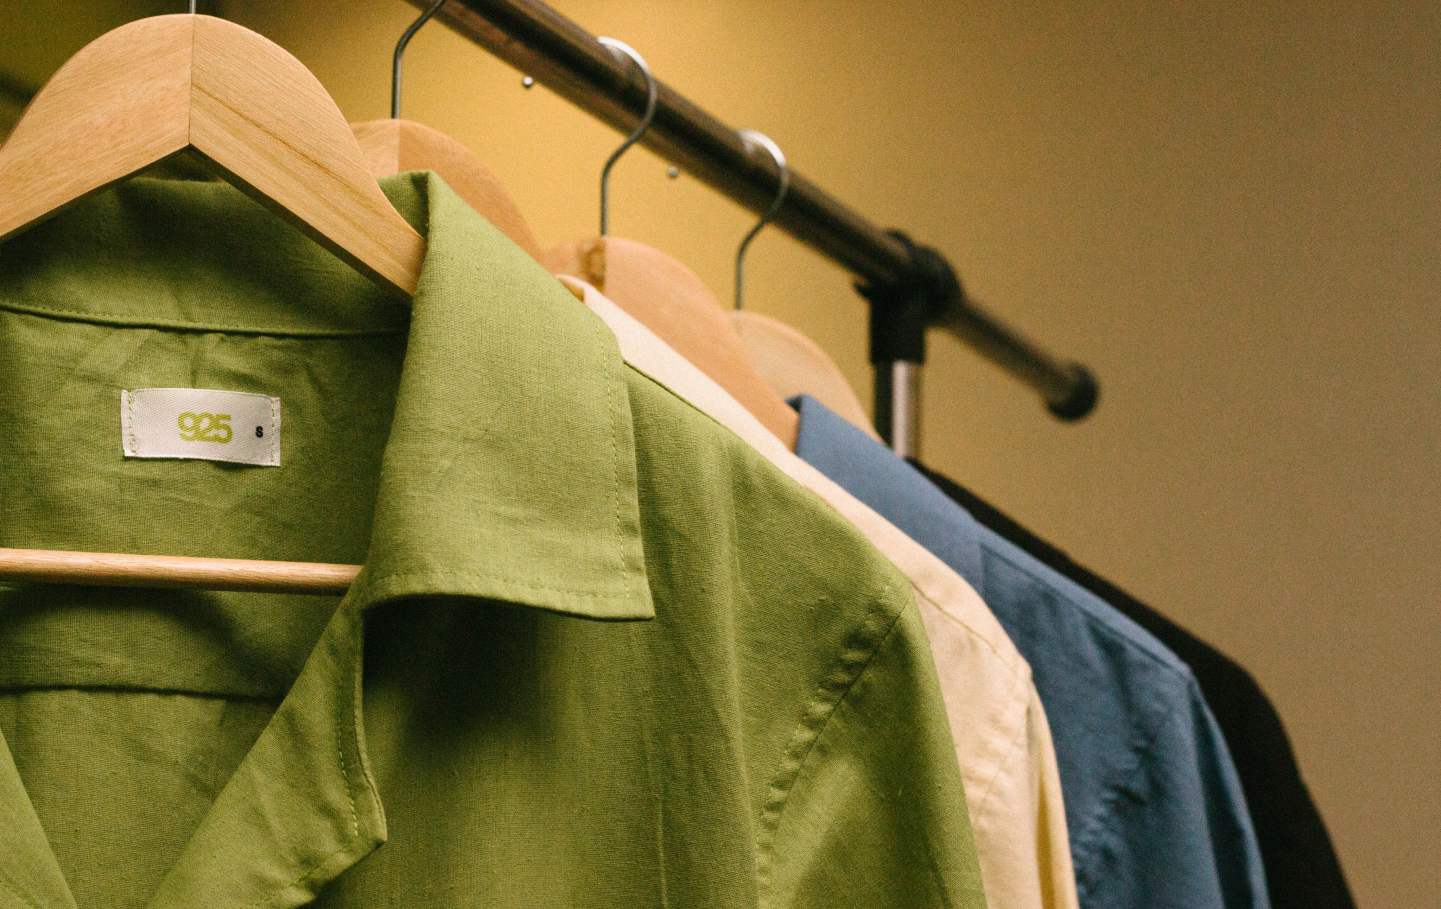
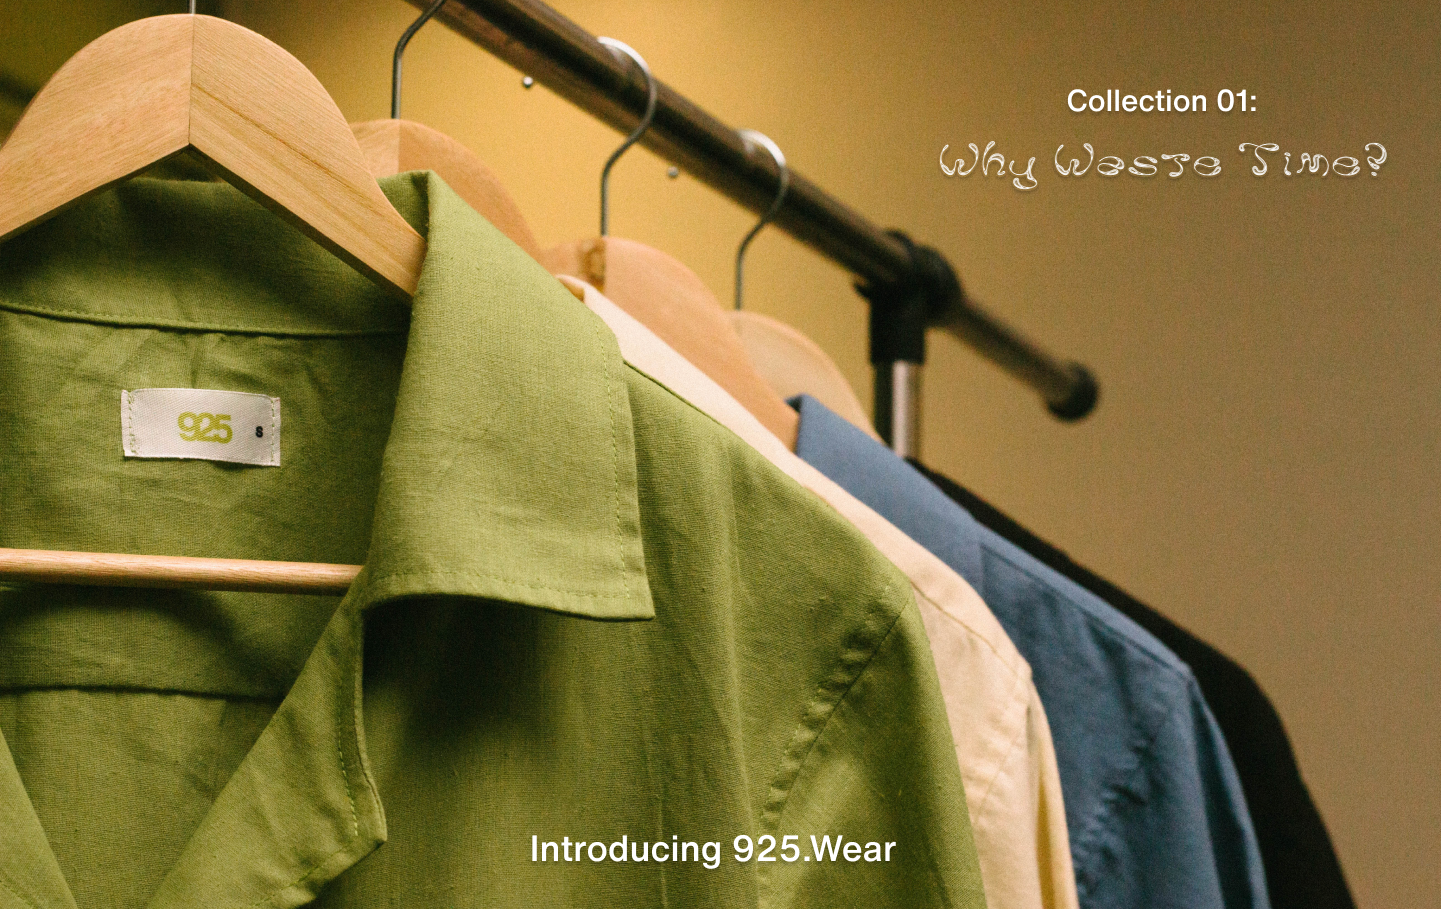
done

Changed region(s): [[0.6558, 0.154, 0.9681, 0.2156], [0.3747, 0.9241, 0.6246, 0.9549], [0.7183, 0.0924, 0.8744, 0.1232]]

diff --git a/pages/index.js b/pages/index.js
@@ -5,6 +5,7 @@ import "react-responsive-carousel/lib/styles/carousel.min.css";
 import { Carousel } from "react-responsive-carousel";
 import { Swiper, SwiperSlide } from "swiper/react";
 import "swiper/css";
+
 export default function Home() {
   return (
     <div>
@@ -44,10 +45,18 @@ export default function Home() {
         </div>
         <Swiper
           className={styles.clotheCarousel}
-          spaceBetween={5}
+          spaceBetween={60}
           slidesPerView={4}
           onSlideChange={() => console.log("slide change")}
           onSwiper={(swiper) => console.log(swiper)}
+          breakpoints={{
+            300: {
+              slidesPerView: 1,
+            },
+            768: {
+              slidesPerView: 4,
+            },
+          }}
         >
           <SwiperSlide className={styles.card}>
             <img className={styles.clothes} src="green.png" />
@@ -100,22 +109,26 @@ export default function Home() {
         </div>
         <div className={styles.interview}>
           <div className={styles.interviewText}>
-            “Whats your biggest fear?” <br/> <br/>
-            “Getting stuck behind a desk, 9-to-5, 5 days <br/>
-            a week, all year long.<br/> 
-            Working a job you cant stand.<br/>
-            That shit scares me.<br/>
-            But thats how it goes, you gotta survive.” <br/><br/>
+            “Whats your biggest fear?” <br /> <br />
+            “Getting stuck behind a desk, 9-to-5, 5 days <br />
+            a week, all year long.
+            <br />
+            Working a job you cant stand.
+            <br />
+            That shit scares me.
+            <br />
+            But thats how it goes, you gotta survive.” <br />
+            <br />
             <strong>(Untitled Interview, n.d.)</strong>
           </div>
           <div className={styles.interviewPic}>
-            <img src="why1.png"/>
+            <img src="why1.png" />
           </div>
           <div className={styles.interviewPic}>
-            <img src="why2.png"/>
+            <img src="why2.png" />
           </div>
           <div className={styles.interviewPic}>
-          <img src="why3.png"/>
+            <img src="why3.png" />
           </div>
         </div>
       </div>

diff --git a/styles/Home.module.css b/styles/Home.module.css
@@ -32,18 +32,29 @@
 .firstSection {
   height: 100%;
   width: 100%;
+  position: relative;
+  margin-top: 115px;
+}
+
+.carouselText {
+  position: absolute;
+  z-index: 1;
 }
 
 .secondSection {
-  height: 100vh;
+  height: 100%;
   display: flex;
   align-items: center;
-  justify-content:center;
+  justify-content: center;
+  gap: 30px;
   flex-direction: column;
+  padding: 100px 0;
 }
+
 .slogan {
   max-width: 100%;
 }
+
 .collectionHeading {
   text-align: center;
   font-size: 29px;
@@ -55,11 +66,20 @@
 }
 
 .clotheCarousel {
-  width: 100%;
+  width: 90%;
+  display: flex;
+  align-items: center;
+  justify-content: center;
+  flex-direction: row;
 }
+
 .card {
   text-align: center;
+  display: flex;
+  flex-direction: column;
+  justify-content: center;
 }
+
 .clothes {
   filter: drop-shadow(0px 4px 4px rgba(0, 0, 0, 0.25));
 }
@@ -71,7 +91,7 @@
   margin-bottom: 0;
 }
 .clothePrice {
-  margin-bottom: 80px;
+
 }
 .secondParagraph {
   width: 60%;
@@ -84,18 +104,18 @@
   display: flex;
   flex-direction: column;
   justify-content: center;
+  gap: 60px;
   align-items: center;
-  height:100vh;
-  border: 2px solid black;
+  height: 100%;
+  padding: 100px 0;
 }
 
 .logopic {
-  border: 2px solid black;
 }
 
 .thirdParagraph{
-  margin: 20px;
-  width: 60%;
+  width: 100%;
+  padding: 0 20%;
   font-size: 26px;
   font-weight: 500;
 }
@@ -103,9 +123,12 @@
   display: flex;
   flex-direction: row;
   justify-content:space-evenly;
+  gap: 40px;
   text-align: justify;
-  width:80%;
+  width: 100%;
+  padding: 0 10%;
 }
+
 .interviewText{
   width: 350px;
   font-size: 22px;
@@ -113,4 +136,25 @@
 }
 .interviewPic{
   width:220px;
+}
+
+@media only screen and (max-width: 1100px) {
+  .interview {
+    width: 100%;
+  }
+
+}
+
+@media only screen and (max-width: 1000px) {
+  .interview {
+    flex-wrap: wrap;
+  }
+
+  .interviewText{
+    width: 200px;
+  }
+
+  .interviewPic{
+    width:200px;
+  }
 }
